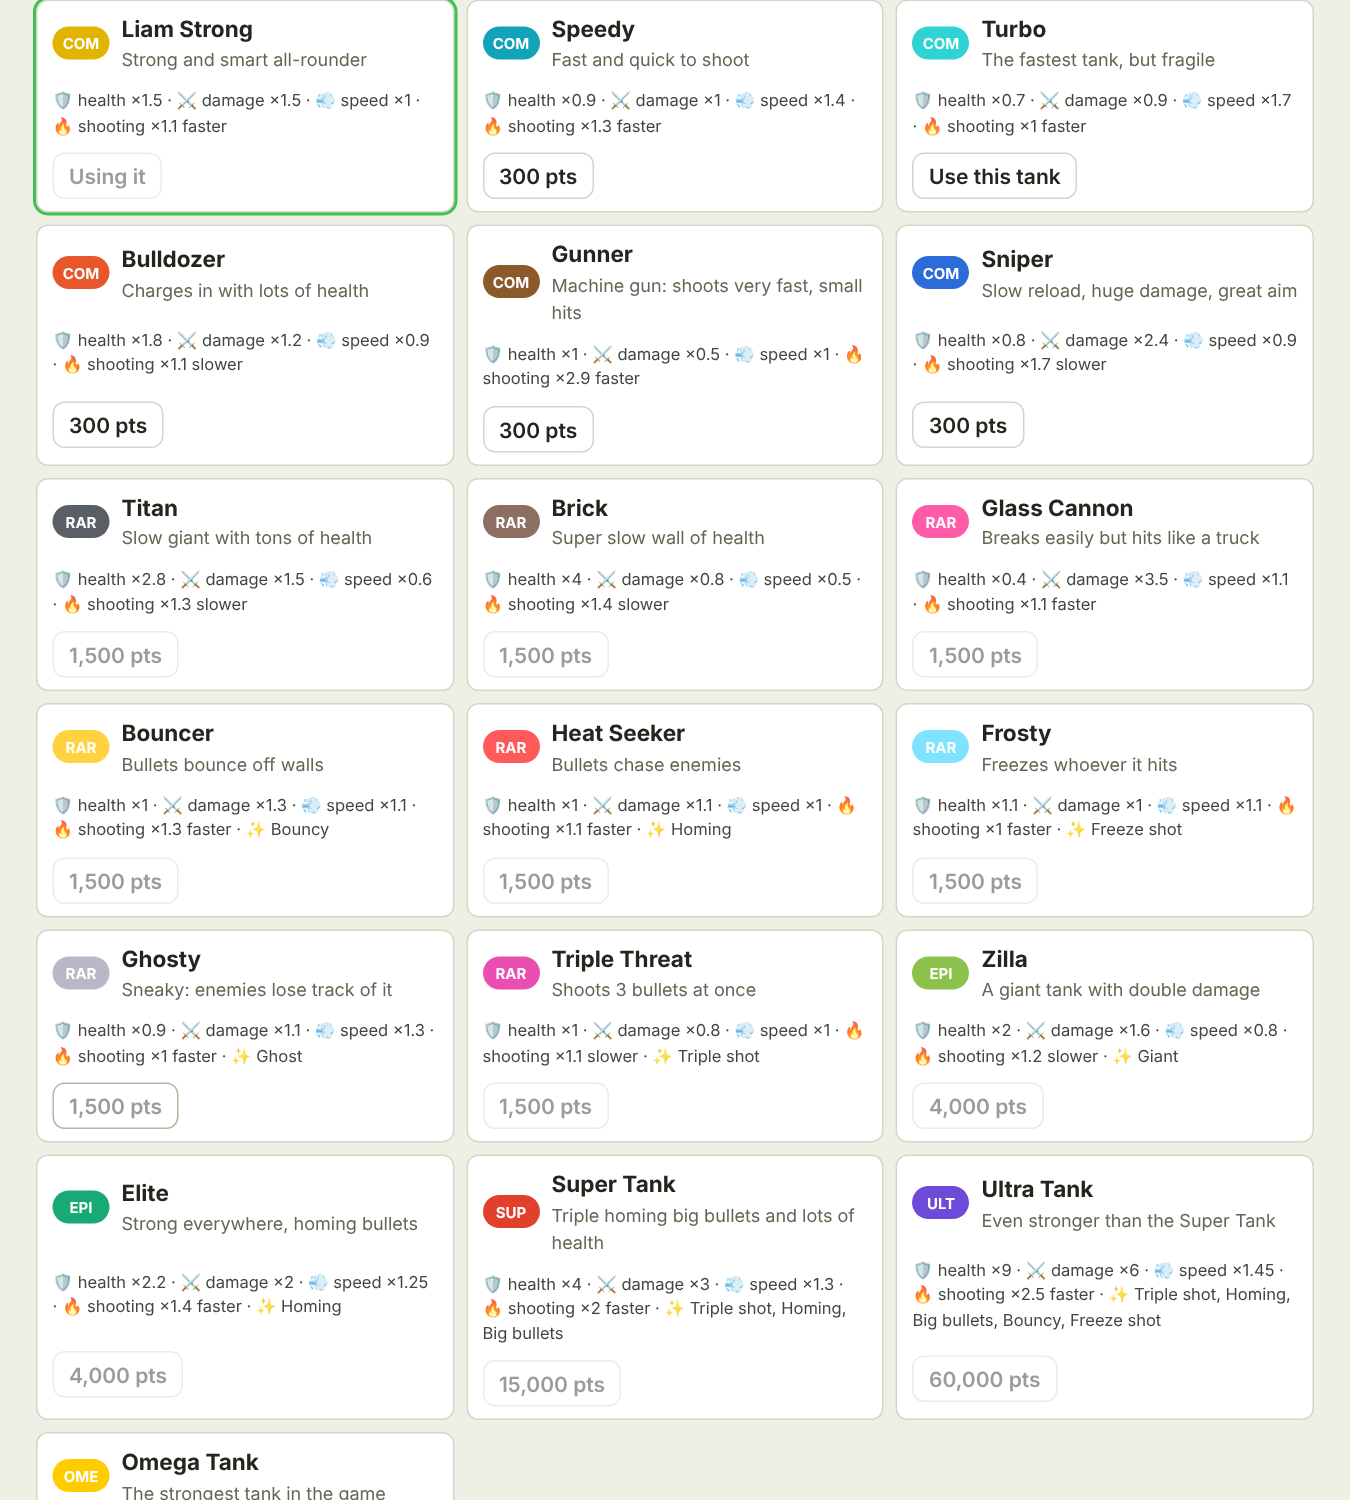
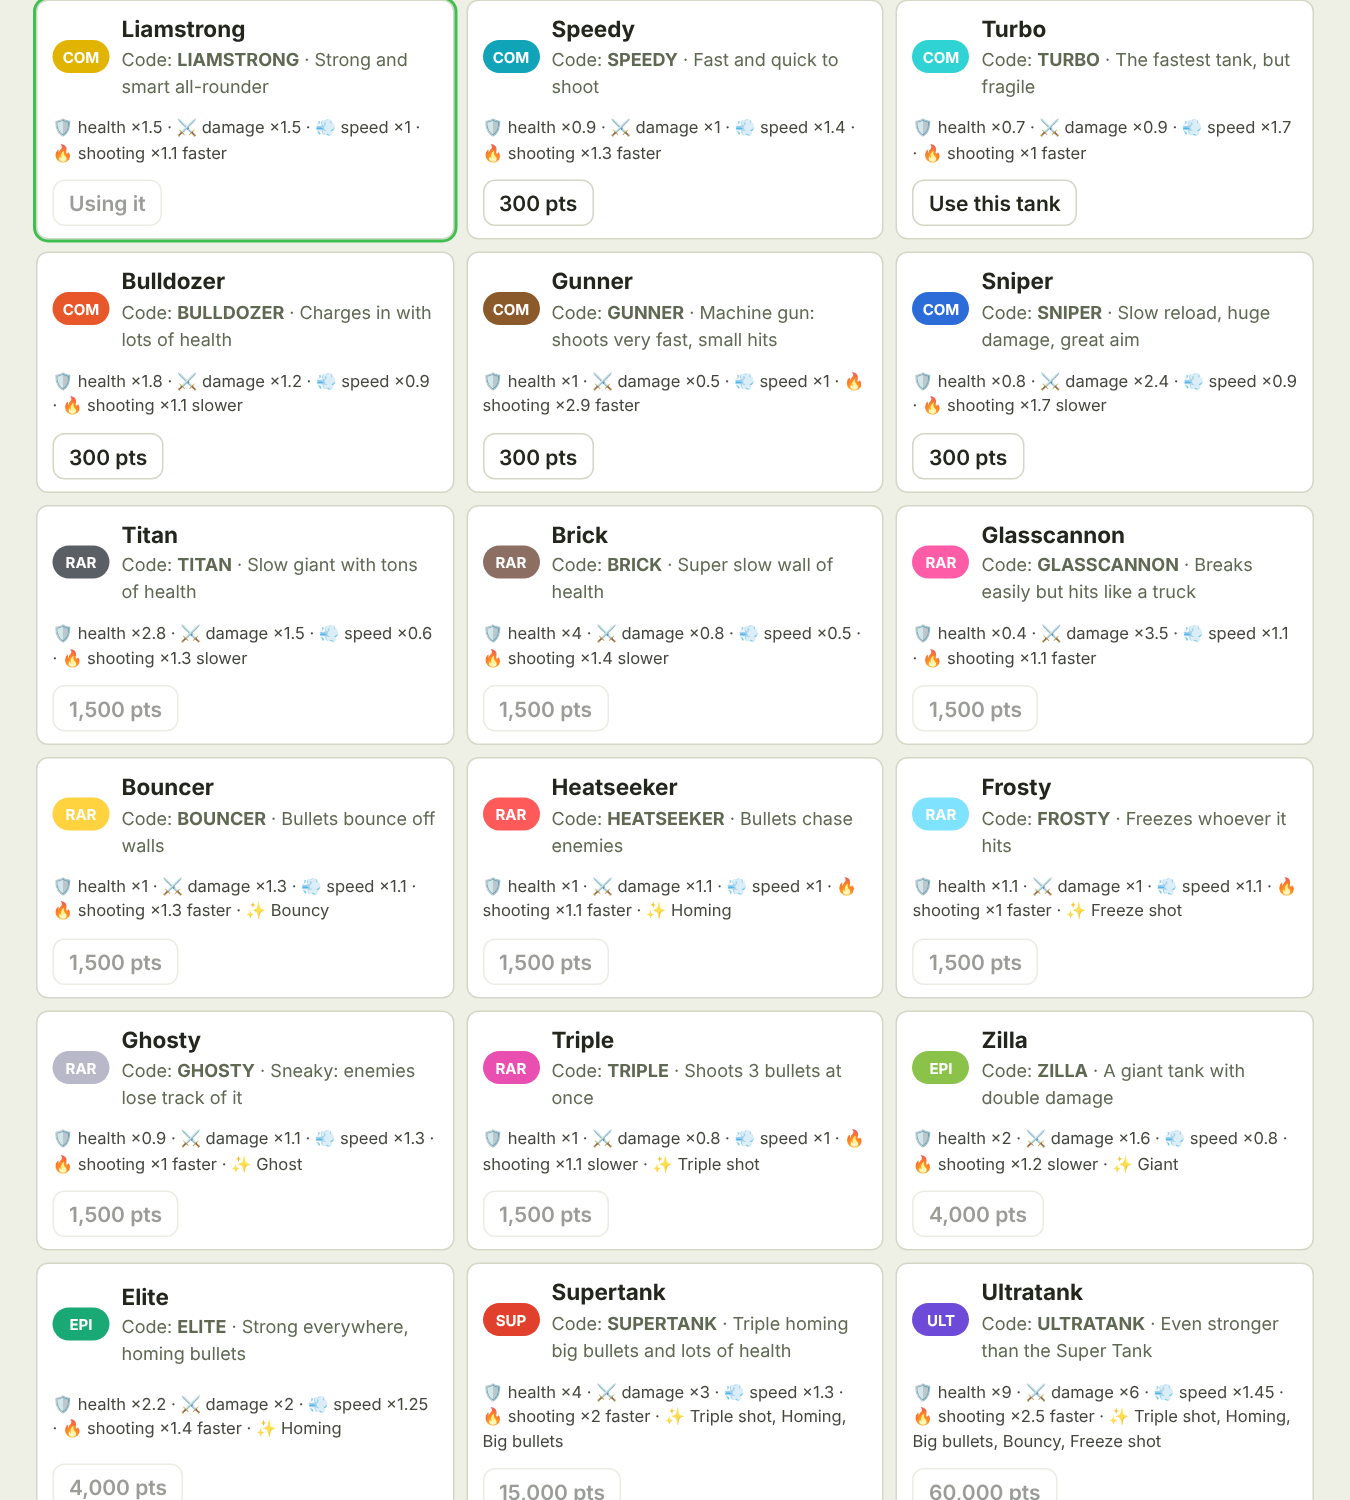
Bots and store use the code names
Claude-Session: https://claude.ai/code/session_01QY3CFQugpZtjjJGdUXapHo

Changed region(s): [[0.0, 0.0, 0.9956, 1.0]]

diff --git a/index.html b/index.html
@@ -1064,7 +1064,7 @@ function startLevel(){
   if(mode!=='online') tanks.forEach((t,i)=>{ if(t.team!=='bot' || plan[i-1+0]===undefined) return; const sp=plan[i-1]; if(sp.label) return;
     const lv=Math.min(diff,MAX_LEVEL), keys=Object.keys(SPECIAL_TANKS).filter(k=>{ const tr=SPECIAL_TANKS[k].tier; return t.boss ? (tr==='super'&&lv>=100)||(tr==='ultra'&&lv>=300)||(tr==='omega'&&lv>=500)||(tr==='epic'&&lv<100) : tr==='common' || (tr==='rare'&&lv>=8) || (tr==='epic'&&lv>=40); });
     if(!keys.length) return; const k=keys[(lv*7+i*5+(t.boss?3:0))%keys.length], P=SPECIAL_TANKS[k];
-    t.type=Object.assign({},t.type,{color:P.color}); t.look=LOOKS[k]; t.label=t.boss?'BOSS '+P.name:'Bot '+P.name; });
+    t.type=Object.assign({},t.type,{color:P.color}); t.look=LOOKS[k]; t.label=(t.boss?'BOSS ':'Bot ')+k.charAt(0)+k.slice(1).toLowerCase(); });   // named like the code, e.g. Bot Heatseeker
   // Bots fight back harder when your tank has lots of abilities switched on, and they get abilities of their own as levels go up.
   if(!fairMode()){
     const k=you.perks.size, hp=id=>you.perks.has(id), f=(hp('rapid')?3:1)*(hp('triple')?2:1)*(hp('big')?1.75:1)*(hp('giant')?2:1)*(hp('homing')?1.3:1)*(hp('freeze')?1.3:1)*(hp('bouncy')?1.1:1), lv=Math.min(diff,MAX_LEVEL), BOT_POOL=['rapid','homing','triple','big','speed','bouncy','giant','freeze'];
@@ -1883,7 +1883,7 @@ function renderTankStore(){
   const own=ownedTanks();
   for(const key of Object.keys(SPECIAL_TANKS)){ const sp=SPECIAL_TANKS[key], price=TIER_PRICE[sp.tier], has=own.includes(key), using=my.stats&&my.stats.look===key;
     const row=document.createElement('div'); row.className='shopitem'+(using?' tsown':'');
-    row.innerHTML='<div class="tsrow"><span class="chip" style="background:'+sp.color+'">'+(TIERS_TXT[sp.tier]||'').slice(0,3).toUpperCase()+'</span><span class="si-text"><b>'+esc(sp.name)+'</b> <small>'+esc(sp.desc)+'</small></span></div><div class="tsstats">'+esc(statLine(sp.s,sp.perks))+'</div>';
+    row.innerHTML='<div class="tsrow"><span class="chip" style="background:'+sp.color+'">'+(TIERS_TXT[sp.tier]||'').slice(0,3).toUpperCase()+'</span><span class="si-text"><b>'+esc(key.charAt(0)+key.slice(1).toLowerCase())+'</b> <small>Code: <b>'+key+'</b> · '+esc(sp.desc)+'</small></span></div><div class="tsstats">'+esc(statLine(sp.s,sp.perks))+'</div>';
     const btn=document.createElement('button'); btn.type='button';
     if(has){ btn.textContent=using?'Using it':'Use this tank'; btn.disabled=!!using; btn.onclick=()=>{ equipTank(key); renderTankStore(); }; }
     else { btn.textContent=price.toLocaleString()+' pts'; btn.disabled=prog.points<price; btn.setAttribute('aria-label','Buy '+sp.name+' for '+price+' points');
